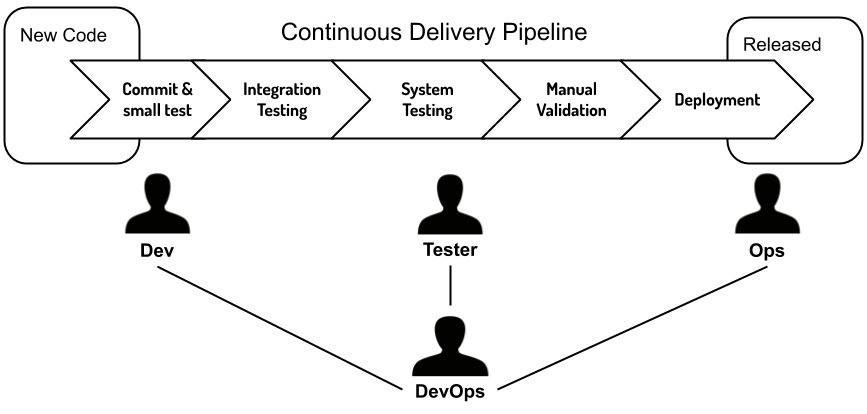
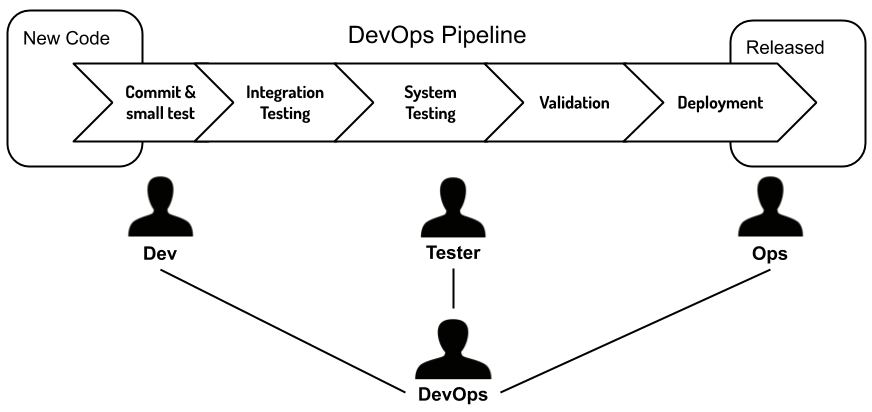
Edit 10 de dic. 2019

diff --git a/content/agile_software_engineering.tex b/content/agile_software_engineering.tex
@@ -116,7 +116,18 @@ Como ya he mencionado, es deseable que el SM vele por la excelencia técnica de 
 \FloatBarrier % Command to control the position of floating images. With its, I can get the figures not to be pushed to the end of the document.
 % El comando FloatBarrier es usado aqui para que la imagen se clave en este lugar y que no sea acarreada al final del documento.
 
-Se puede hacer un esquema de flujo semejante con los aspecto tecnológico, de herramientas, correspondientes a cada fase.
+Se puede hacer un esquema de flujo (el pipeline de producto o de delivery) semejante con los aspecto tecnológico, de herramientas, correspondientes a cada fase. Si bien hay un flujo genérico, cada equipo determinará cuál es su flujo y, en consecuencia, su pipeline.
+
+\begin{figure}[h]
+  \centering
+  \includegraphics[width=0.99\textwidth]{Product_Pipeline}
+  \caption{Flujo de producto vs. de delivery}
+  \centering
+  \label{fig:Product_Pipeline} %\ref{fig:Product_Pipeline}
+\end{figure}
+\FloatBarrier % Command to control the position of floating images. With its, I can get the figures not to be pushed to the end of the document.
+% El comando FloatBarrier es usado aqui para que la imagen se clave en este lugar y que no sea acarreada al final del documento.
+
 
 Hay que tener en cuenta que para que el flujo de desarrollo de software fluya limpio y cadencioso, la experiencia del desarrollo debe ser memorable y fluida sobre una plataforma e infraestructura que la facilite. Es por esto que un equipo de desarrollo tiene interdependencia con equipos de operaciones e infraestructura y es parte del desafío de un equipo de alto rendimiento disminuir la brecha, empoderarse y facilitar la integración de ese área de conocimiento.
 
@@ -129,6 +140,92 @@ Hay que tener en cuenta que para que el flujo de desarrollo de software fluya li
 \end{figure}
 \FloatBarrier % Command to control the position of floating images. With its, I can get the figures not to be pushed to the end of the document.
 % El comando FloatBarrier es usado aqui para que la imagen se clave en este lugar y que no sea acarreada al final del documento.
+
+\section{Plataforma e infraestructura}
+
+Una manera de deducir el nivel de calidad de trabajo de un equipo es ver cómo se desenvuelven con DevOps en cuanto a cómo manejan la optimización y automatización del flujo de trabajo, y  la calidad y flexibilidad de su plataforma y su infraestructura.
+
+
+\subsection{Plataforma}
+
+
+El trabajo de desarrollo de software es una actividad bastante compleja. Ya no se programa en texto plano y se integra enviando archivos por email. El trabajo del Scrum Master es ayudar a su equipo a que encuentre su stack tecnológico adecuado para el problema que intenta resolver. La complejidad de plataforma justa y mínima que facilite y optimice el flujo de desarrollo. Se debería preguntar: ¿Qué plataforma tiene y debería tener el equipo? ¿Cómo maneja o debería manejar la plataforma? ¿Cuáles son sus herramientas informáticas para idear, crear, integrar, probar, desplegar, monitorear y corregir errores de software de una manera ágil? ¿Cuán rápido permiten llevar una idea a producción?
+
+
+Por ejemplo, un equipo estándar que desarrolla algún sitio web con una arquitectura orientada a microservicios. ¿Qué necesitaría? A modo de ejemplo podemos pensar en lo siguiente:
+\begin{itemize}
+
+\item \textbf{Análisis y diseño:} El equipo usará, en una de sus primeras fases, herramientas de gestión de proyectos (como Jira de Atlassian, Trello, etc.) para idear, definir, compartir, coordinar y planificar trabajo en forma de historias de usuario, tickets o docs. El equipo necesita comunicarse para lo que usará software de chatting (email, Slack, Rocket.Chat, Fleep, etc. ) y conferencias (Google Hangouts, Zoom, skype, etc.). En el proceso de análisis y diseño necesitará compartir documentación y otros archivos necesitando un repositorio de documentos compartidos (Google Drive, Dropbox, OneDrive y SharePoint en Office 36 de Microsoft, etc.). Sumando herramientas de diseño UX (por ejemplo para Wireframes, Visual Design, etc.) y de diseño y diagramado de software (Día, Visio, Google Draw.io, etc.). 
+
+\item \textbf{Implementación:} En programación incluirán lenguajes, entornos IDE de programación (Eclipse, etc.) y librerías. Necesitará un gestor de configuración y versionado de software o Version Control System para trabajar en un código de propiedad compartida (github, Subversion, CVS, etc.). 
+
+\item \textbf{Integración:} Trabajará con un esquema de branching e integración de código para lo cual usará herramientas de integración y despliegue (como Gitlab) además de herramientas de automatización de integración y despliegue (como Jenkins, Travis CI, Buildbot, DotCi, etc.). 
+Pruebas: Junto a esto, para realmente hacer ingeniería, necesita herramientas de gestión,  ejecución y automatización de pruebas (como Selenium, Sahi, Source Labs, Testing Bot etc.). 
+
+\item \textbf{Despliegue:} Herramientas para desplegar en producción (Jenkins, Travis CI, Buildbot, DotCi, etc.). 
+
+\item \textbf{Monitoreo:} Y, en su etapa de monitorear el software operativo en producción, necesita monitorear el rendimiento y la saludo del software y atender las contingencias que ocurran. Aquí necesitará herramientas de Bug-tracking como comunicación y sistema de ticket para identificaciones de errores y bugs (Bugzila, Mantis Bug Tracker, etc.), herramienta de logs o  registros y monitoreo (Splunk, Sumo Logic, LogStash, GrayLog, Loggly, PaperTrails, etc.). Y por último el equipo necesita evaluar los datos del negocio que opera el software, tendencias, comportamientos de los usuarios y clientes, para lo que puede usar herramientas de Analítica digital y Business Intelligence (Splunk, Google Analytic, etc.).
+
+\end{itemize}
+
+Luego, todas estas herramientas... ¿Sobre qué corren? ¿Sobre qué infraestructura funciona? ¿Qué ambientes de programación, pruebas y producción manejan? ¿Cuán versátil y fácil de configurar es? ¿Que dominio, propiedad y responsabilidad tiene el equipo sobre esta? ¿Cómo se comunica y se coordina con los proveedores y el soporte?
+
+
+\subsection{Infraestructura}
+
+
+\subsubsection{Ambientes de software}
+El flujo de desarrollo de software sucede y fluye por diferentes ambientes de software, que podrían clasificarse como ambiente de desarrollo local, de desarrollo compartido (o de integración), de prueba, de preparación (Staging) y de producción.
+
+\begin{figure}[h]
+  \centering
+  \includegraphics[width=0.99\textwidth]{Environment}
+  \caption{Ambientes del flujo de desarrollo}
+  \centering
+  \label{fig:Environment} %\ref{fig:Environment}
+\end{figure}
+\FloatBarrier % Command to control the position of floating images. With its, I can get the figures not to be pushed to the end of the document.
+% El comando FloatBarrier es usado aqui para que la imagen se clave en este lugar y que no sea acarreada al final del documento.
+
+\begin{itemize}
+
+\item \textbf{Desarrollo:} Un ambiente de desarrollo compartido e integración está configurado para permitir a los desarrolladores escribir código rápidamente, verificarlo creando pruebas básicas (pruebas unitarias) y ser productivo. Este entorno es mucho más pequeño de lo que se necesita para ejecutar una aplicación completa en una implementación de la vida real. También presenta herramientas específicas para desarrolladores que a veces pueden obstaculizar la validación rigurosa del control de calidad. Y lo más importante, el entorno de desarrollo cambia constantemente, con nuevas funciones que se agregan todo el tiempo, lo que dificulta que los ingenieros de control de calidad realicen pruebas que requieren mucho tiempo, pruebas de regresión o integración, sin interrumpir el proceso de desarrollo. Debido a que ejecutar pruebas complejas en el entorno de desarrollo conduciría a una gran pérdida de tiempo de los desarrolladores y, a su vez, por la poca estabilidad del software dificultaría el trabajo de los testers, es que se hace necesario otro entorno especializado para probar.
+
+\item \textbf{Prueba:} El ambiente de prueba es donde los ingenieros de control de calidad pueden usar una variedad de herramientas de prueba para ejecutar todas sus diferentes pruebas sobre el código de aplicación tomado del entorno de desarrollo. Mientras los desarrolladores comprueban su código en busca de errores simples antes de pasarlo para garantizar la calidad, los testers ejecutan tipos de pruebas más complejas y que requieren mucho tiempo para verificar la compatibilidad del código nuevo y antiguo, la integración correcta de los diferentes módulos, el rendimiento del sistema, etc. 
+
+\item \textbf{Staging:} Luego se necesitan pruebas de aceptación del usuario en un ambiente Staging, provisional, antes de subir a producción. El Staging es un entorno de ensayo pre-productivo y es una réplica idéntica del entorno de producción del cliente, que también suele contener datos de producción reales que se han desinfectado por motivos de seguridad. Está alojado de la misma manera que los servidores de producción e implica una configuración idéntica y operaciones de actualización. Por lo tanto, las pruebas en un entorno provisional ofrecen la forma más confiable de verificar la calidad del código y garantizar que los servidores de producción tengan éxito.
+
+\item \textbf{Producción:} Y por último el ambiente productivo donde se explotará el software. Aquí estarán todos los datos reales del cliente y es donde el software, de algún modo, vive.
+
+\end{itemize}
+
+\subsubsection{Infraestructura ágil}
+La infraestructura es como la autopista por donde circula nuestro código dentro de los ambientes como veículos. En consecuencia la calidad y tecnología de esta autopista determina la velocidad con que circulará nuestro código y la tasa de accidentes. La infraestructura ha evolucionado y seguirá haciéndolo a un ritmo acelerado. A continuación cuento una visión general de cómo se ha dado. 
+
+
+\begin{figure}[h]
+  \centering
+  \includegraphics[width=0.99\textwidth]{Infrastructures}
+  \caption{Infraestructura}
+  \centering
+  \label{fig:Infrastructures} %\ref{fig:Infrastructures}
+\end{figure}
+\FloatBarrier % Command to control the position of floating images. With its, I can get the figures not to be pushed to the end of the document.
+% El comando FloatBarrier es usado aqui para que la imagen se clave en este lugar y que no sea acarreada al final del documento.
+
+\begin{itemize}
+
+\item \textbf{Baseline:} La forma más simple de infraestructura de trabajo que tenemos como desarrolladores es el Baseline, en donde el desarrollador instala todo lo necesario para programar y correr la aplicación desarrollada en su máquina física local. Y, además, puede usar servidores dedicados o Datacenters para hacer pruebas y despliegues. El problema de esta estrategia es que cuando estamos desarrollando una aplicación inestable puede desestabilizar todo el sistema, desconfigurar el computador y terminar todo en un caos provocado por la coexistencia de varios lenguajes o plataformas, librerías, servidores de bases de datos locales, espacios de trabajo de nuestro IDE, proyectos de versionado de código, etc… Y esto nos hace perder mucho tiempo en estabilizar todo de nuevo. Y en el caso de servidores compartidos esto se potencia, porque son más personas las que echan manos. Esto no es para nada ágil. Para mejorar esto surgió la posibilidad de trabajar con virtualización.
+
+\item \textbf{Virtualización:} La virtualización nos permite ejecutar aplicaciones en un entorno controlado, con lo necesario para funcionar, encapsulado en un sistema operativo virtual independientemente de la máquina real que use. La virtualización funciona por medio de la abstracción de recursos, esto es por parte de un Hypervisor o VMM que corre en la máquina física del desarrollador. Una de las principales ventajas que tiene la virtualización es la capacidad de separar un entorno inestable (el virtual) de otro estable (la máquina física).  Esto permite restaurar el sistema a cualquier estado previo correcto en menos tiempo que si se trabajara directamente en la máquina física real como el caso Baseline. Otra ventaja es poder trabajar con múltiples entornos de prueba. Por ejemplo, en la misma máquina podemos correr la aplicación en distintos sistemas operativos. Esto mejora también el trabajo sobre servidores compartidos. Diferentes herramientas nos ofrecen virtualización de sistemas operativos (Docker, Virtuozzo, OpenVZ, Linux-VServer, etc.). Además existe la virtualización de procesos (Java Virtual Machine, etc.) y de sistemas (Oracle VM VirtualBox, MTL Virtual Machine, etc.). Junto a estas tecnologías surge la virtualización de red que nos ayuda a desacoplar completamente los recursos de red del hardware subyacente. El problema de la virtualización es que el proceso de configuración y distribución sigue siendo una tarea manual, repetitiva y en definitiva, poco conveniente. Esta forma no tiene tanta flexibilidad y portabilidad. Además, cuando necesitamos tener máquinas virtuales dedicadas y tenemos un elevado número de servidores en una misma máquina, se ve una clara reducción de recursos. Por eso surgió otra estrategia de virtualización más avanzada, la ‘containerización’.
+
+\item \textbf{Containerización:} Los contenedores nos proporcionan un entorno aislado e independiente como forma de empaquetar todo lo necesario para ejecutar una aplicación: el código, las herramientas del sistema, librerías, etcétera. Sin usar sistemas operativos virtuales completos. Esto permite la portabilidad, que implica que los desarrolladores puedan crear aplicaciones en una computadora portátil y desplegarlas en los servidores, de forma más rápido, arrancarlas y pararlas más rápido y aprovechar mejor los recursos de hardware. Además facilita trabajar en una arquitectura de microservicios. Existen diferentes herramientas software que nos provee containerización (Kubernetes, Docker, Solaris Containers, etc.).
+
+\item \textbf{Infraestructura como código:} Por otra parte, surge la “infraestructura como código”, en alternativa a la infraestructura tradicional que traía procesos manuales, errores humanos, demoras en configuraciones, cuellos de botella por entrega de la infraestructura, documentación incompleta, dificultad de introducir frecuentes cambios, etcétera. Con ella aplicamos herramientas y prácticas de ingeniería de software en nuestra infraestructura. Esto nos permite gestionar y proporcionar infraestructura de forma programática a través de código y automatización, para crear y cambiar servidores, instancias, entornos, contenedores o alguna otra infraestructura de forma ágil. En otras palabras, escribimos y ejecutamos código con diferentes herramientas software (Chef, Ansible de Redhat, Puppet, SaltStack, Terraform de HashiCorp, Vagrant, etc.) que define, despliega y actualiza infraestructuras.
+
+\item \textbf{Cloud Computing:} Y todo esto nos lleva al Cloud Computing, o computación en la nube. Que es una plataforma que permite ofrecer las TI como servicios en la red. Todo lo que se encuentra en la nube Cloud se ofrece al usuario o programador como servicio, tanto software (SaaS), plataforma (PaaS) e infraestructuras (IaaS). El Cloud está basado en entornos virtualizados de alta disponibilidad y rendimiento sobre la infraestructura de Datacenter del proveedor. Además existe Elastic Computing que se aplica en los Elastic Cloud como tecnología de adaptación de uso de recursos en función de la demanda. Actualmente estas tecnologías son provista por proveedores dedicados al negocio de Clouding (Amazon, Azure, Google, Alibaba, etc.).
+
+\end{itemize}
 
 \section{En síntesis}
 

diff --git a/content/complementary.tex b/content/complementary.tex
@@ -597,23 +597,36 @@ La práctica consiste en que una vez que el programador desarrolló un trabajo d
 El "Test Driven Development" (TDD) o "desarrollo guiado por pruebas"\footnote{\cite{Jurado-2010}} es una práctica, técnica de desarrollo ágil y técnica de programación que hace foco en el comportamiento especificado de unidades de software\footnote{[Wikipedia 2014]} como disparador para el desarrollo de pruebas. O sea, basándose en especificaciones, esta práctica tiene como táctica escribir primero las pruebas (código de prueba) y después el código (código de producto) para luego realizar ciclos de "refactorización" \cite{Kent-Beck-2003}. Con este enfoque se pretende, entre otras cosas, que el diseño sea el código mismo (código de producto) y que las pruebas concretas (código de prueba) sirvan de documentación. Esta técnica se complementa con la automatización de pruebas. En todo ese conjunto de pruebas concretas, las pruebas de unidad se usan para validar métodos individuales y conjuntos de métodos. En consecuencia, en este tipo de desarrollos, se logran sistemas con un gran conjunto de pruebas (muchas líneas de código en pruebas). Por eso hay que considerar que, si bien se pueden lograr productos de calidad, demanda un costo considerable.\newline
 Si tenemos que asignar un lema a este enfoque es "la prueba en primer lugar" y su afirmación filosófica principal sería que "el diseño emerge del refactoring originado por pruebas".
 
-\subsection{Integración continua}
-
-La integración continua (Continuous Integration\footnote{Continuous Integration fue propuesto inicialmente por Martin Fowler.}) es una práctica de ingeniería de software y modelo informático que consiste en hacer integraciones automáticas de un proyecto, compilación y ejecución de pruebas, lo más a menudo posible para así poder detectar fallos cuanto antes.
-
-\subsection{Entrega continua}
-
-El Continuous Delivery es un enfoque de ingeniería de software en el que los equipos producen software en ciclos cortos, garantizando releases de forma fiable en cualquier momento del desarrollo. Este modelo suele ser parte incluida en la cultura DevOps y, a su vez, suele incluir la práctica de Continuous Deployment para desplegar, en forma automática, código a producción. Trabajar bajo el marco ágil y no trabajar con testing continuo, integración continua ni entrega continua puede conducir a un trabajo poco ingenieril y menos eficiente. Es parte de reducir el time to market y el tiempo de despliegue, facilitar el flujo entre el desarrollo y despliegue, reduciéndo el tiempo lo máximo posible y manteniendo calidad. Aquí el desafío es lograr hacer el desarrollo con TDD (ATDD o DDD), integración y despliegue, todo dentro de un mismo sprint.
-
 \begin{figure}[h]
   \centering
-  \includegraphics[width=0.80\textwidth]{Continuous_delivery_flow}
+  \includegraphics[width=0.75\textwidth]{Continuous_delivery_flow}
   \caption{Flujo de delivery}
   \centering
   \label{fig:Continuous_delivery_flow} %\ref{fig:Continuous_delivery_flow}
 \end{figure}
 \FloatBarrier % Command to control the position of floating images. With its, I can get the figures not to be pushed to the end of the document.
 % El comando FloatBarrier es usado aqui para que la imagen se clave en este lugar y que no sea acarreada al final del documento.
+
+
+\subsection{Integración continua}
+
+La integración continua (Continuous Integration\footnote{Continuous Integration fue propuesto inicialmente por Martin Fowler.}) es una práctica de ingeniería de software y modelo informático que consiste en hacer integraciones automáticas de un proyecto, compilación y ejecución de pruebas, lo más a menudo posible para así poder detectar fallos cuanto antes.
+
+\subsection{Entrega y despliegue continuo}
+
+El Continuous Delivery es un enfoque de ingeniería de software en el que los equipos producen software en ciclos cortos, garantizando releases de forma fiable en cualquier momento del desarrollo. Este modelo suele ser parte incluida en la cultura DevOps y, a su vez, suele incluir la práctica de Continuous Deployment para desplegar, en forma automática, código a producción. Tal vez la única diferencia entre Continuous Delivery y Continuous Deployment es que en esta última todo está automatizado y en la anterior uncluye un trabajo manual en el despliegue a producción.
+Trabajar bajo el marco ágil y no trabajar con testing continuo, integración continua ni entrega continua puede conducir a un trabajo poco ingenieril y menos eficiente. Es parte de reducir el time to market y el tiempo de despliegue, facilitar el flujo entre el desarrollo y despliegue, reduciéndo el tiempo lo máximo posible y manteniendo calidad. Aquí el desafío es lograr hacer el desarrollo con TDD (ATDD o DDD), integración y despliegue, todo dentro de un mismo sprint.
+
+\begin{figure}[h]
+  \centering
+  \includegraphics[width=0.99\textwidth]{DevOpsPipeline}
+  \caption{Continuous Delivery vs. Continuous Deployment}
+  \centering
+  \label{fig:DevOpsPipeline} %\ref{fig:DevOpsPipeline}
+\end{figure}
+\FloatBarrier % Command to control the position of floating images. With its, I can get the figures not to be pushed to the end of the document.
+% El comando FloatBarrier es usado aqui para que la imagen se clave en este lugar y que no sea acarreada al final del documento.
+
 
 \newpage
 \section{Metodologías amigas}

diff --git a/content/scaling.tex b/content/scaling.tex
@@ -137,13 +137,14 @@ Además, por un lado son los propios equipos los que pueden responsabilizarse de
 
 \begin{figure}[h]
   \centering
-  \includegraphics[width=0.90\textwidth]{DevOps-pipeline}
+  \includegraphics[width=0.99\textwidth]{DevOps-pipeline}
   \caption{DevOps=Dev+Tester+Ops}
   \centering
   \label{fig:DevOps-pipeline} %\ref{fig:DevOps-pipeline}
 \end{figure}
 
-Por otro lado, el área de operaciones no necesita implementar Scrum, pero sí puede llevar en práctica sus valores, ser ágil (con Lean, Kanban, DAD, etc.) y tener en cuenta los ciclos Scrum de los equipos de desarrollo. DevOps es sólo un paso importante para unirse a la cultura general de la colaboración ágil y que debe involucrar a todas las disciplinas en una organización. 
+Por otro lado, el área de operaciones (o equipo DevOps o de plataforma e infraestructura) no necesita implementar Scrum, pero sí puede llevar en práctica sus valores, ser ágil (con Lean, Kanban, DAD, etc.) y tener en cuenta los ciclos Scrum de los equipos de desarrollo. Este equipo, más que trabajar como auditor, rector y bajo demanda (un modo push) deberían trabajar más en un modo facilitador, líder y como soporte (un modo pull) de los equipos de desarrollo, promoviendo un sistema de autogestión (donde los equipos puedan autogestionar sus sistemas DevOps incluyendo su plataforma e infraestructura).
+DevOps es sólo un paso importante para unirse a la cultura general de la colaboración ágil y que debe involucrar a todas las disciplinas en una organización. 
 
 
 \section{Modelos de escalamiento}

diff --git a/content/philosophy.tex b/content/philosophy.tex
@@ -283,3 +283,12 @@ La idea del flujo ronda el enfoque ágil, ya sea con Lean, Kanban y también con
 \end{figure}
 
 Las habilidades y las destrezas de un equipo, como de sus integrantes, deben estar en equilibrio con el reto de lo que se tiene que hacer. Cuando eso se logra, se alcanza una armonía de un proceso fluyente, con ritmo, con cadencia. Cuando se habla de cadencia se refiere a esta idea de fluir con ritmo. Desde un punto de vista sistémico, equivale a decir que debe existir cierta relación proporcional y estable entre el promedio de la tasa de entrada al sistema con el promedio de la tasa de salida (promedio de la velocidad), en relación al tiempo. Para que ocurra el sistema debe comportarse como un flujo de trabajo con personas jalando tareas a un ritmo sostenible y armónico. Y para fluir con ritmo es necesario limpiar el proceso, es decir, hacerlo magro: eliminar desperdicios, diluir problemas, mitigar riesgos, evadir obstáculos, etcétera. Un líder de Scrum es un facilitador, alguien que facilita el flujo. Y para facilitar el flujo es necesario, entre otras cosas, disciplina. El marco Scrum es el marco disciplinario que encauza el flujo.
+
+
+\begin{figure}[h] 
+  \centering
+  \includegraphics[width=0.99\textwidth]{DevelopmentFlow}
+  \caption{Flujo de desarrollo}
+  \centering
+  \label{fig:DevelopmentFlow} %\ref{fig:DevelopmentFlow}
+\end{figure}
